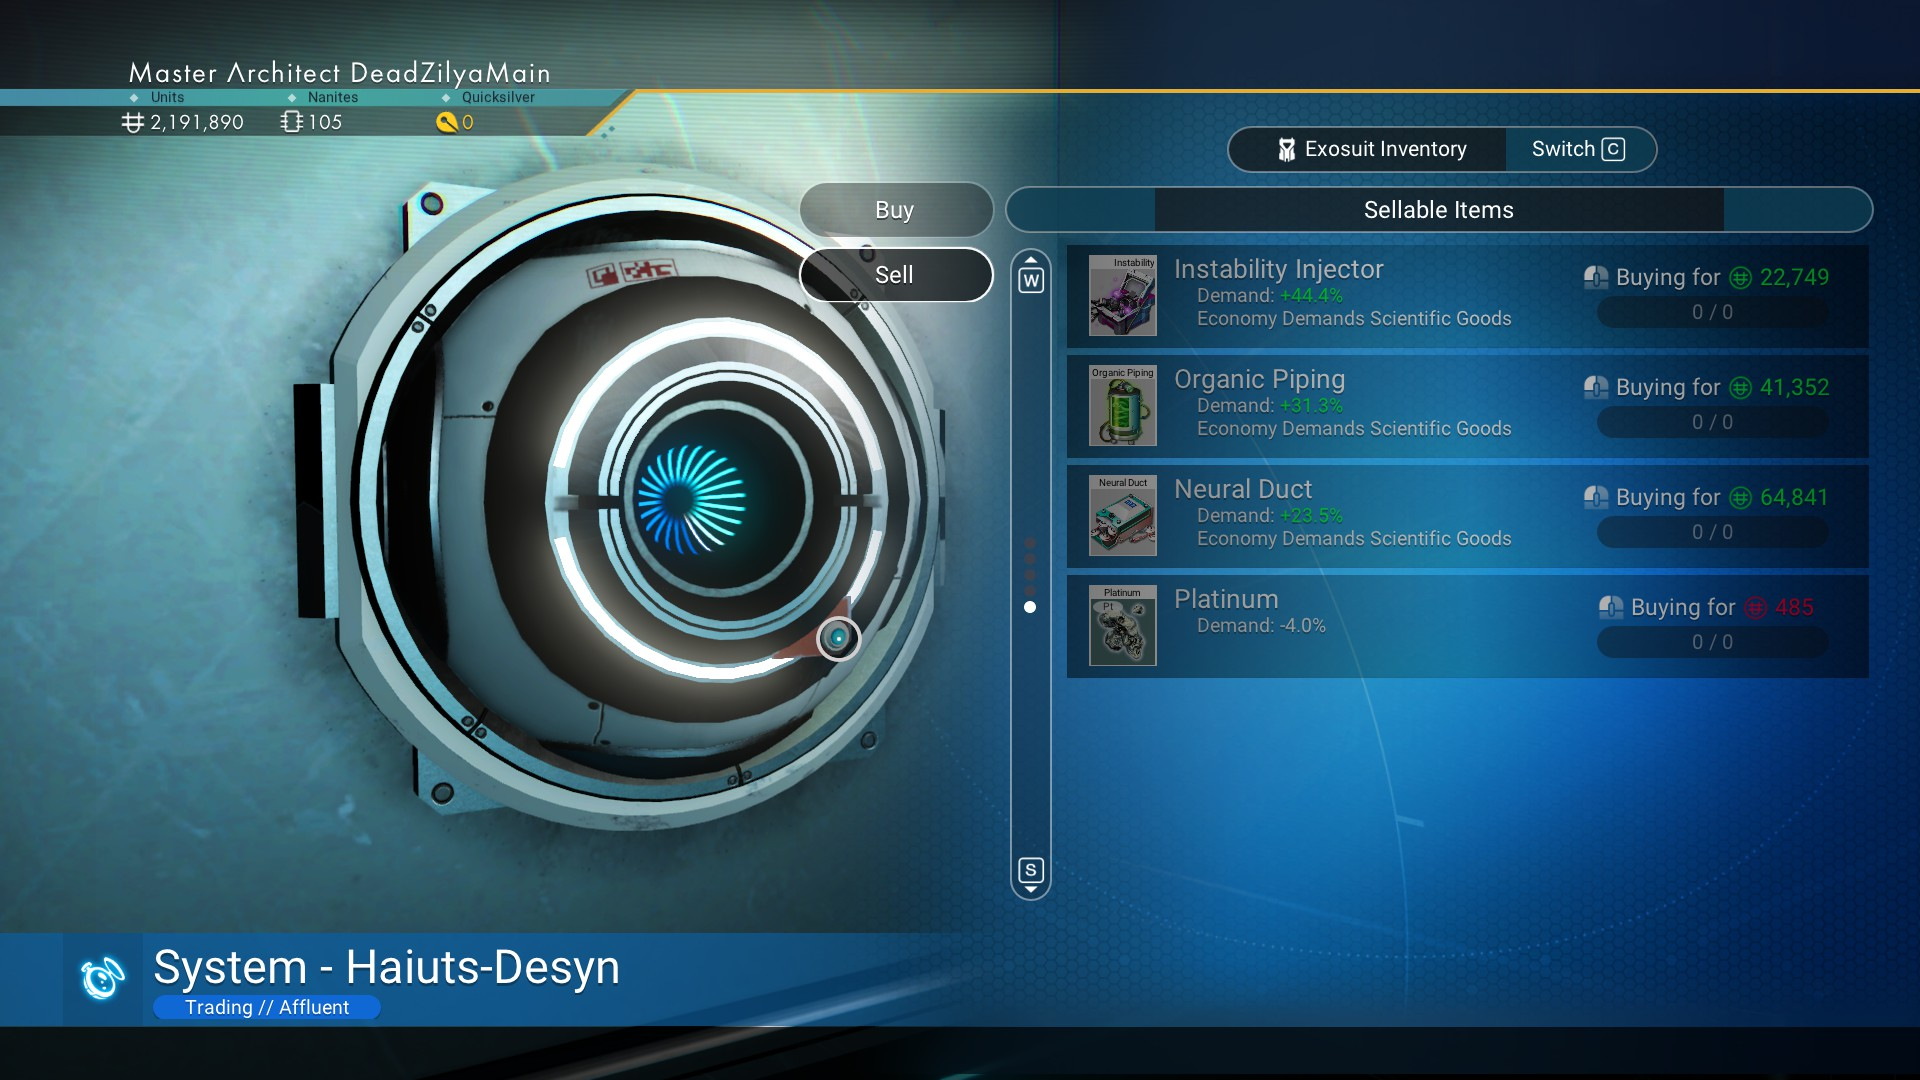
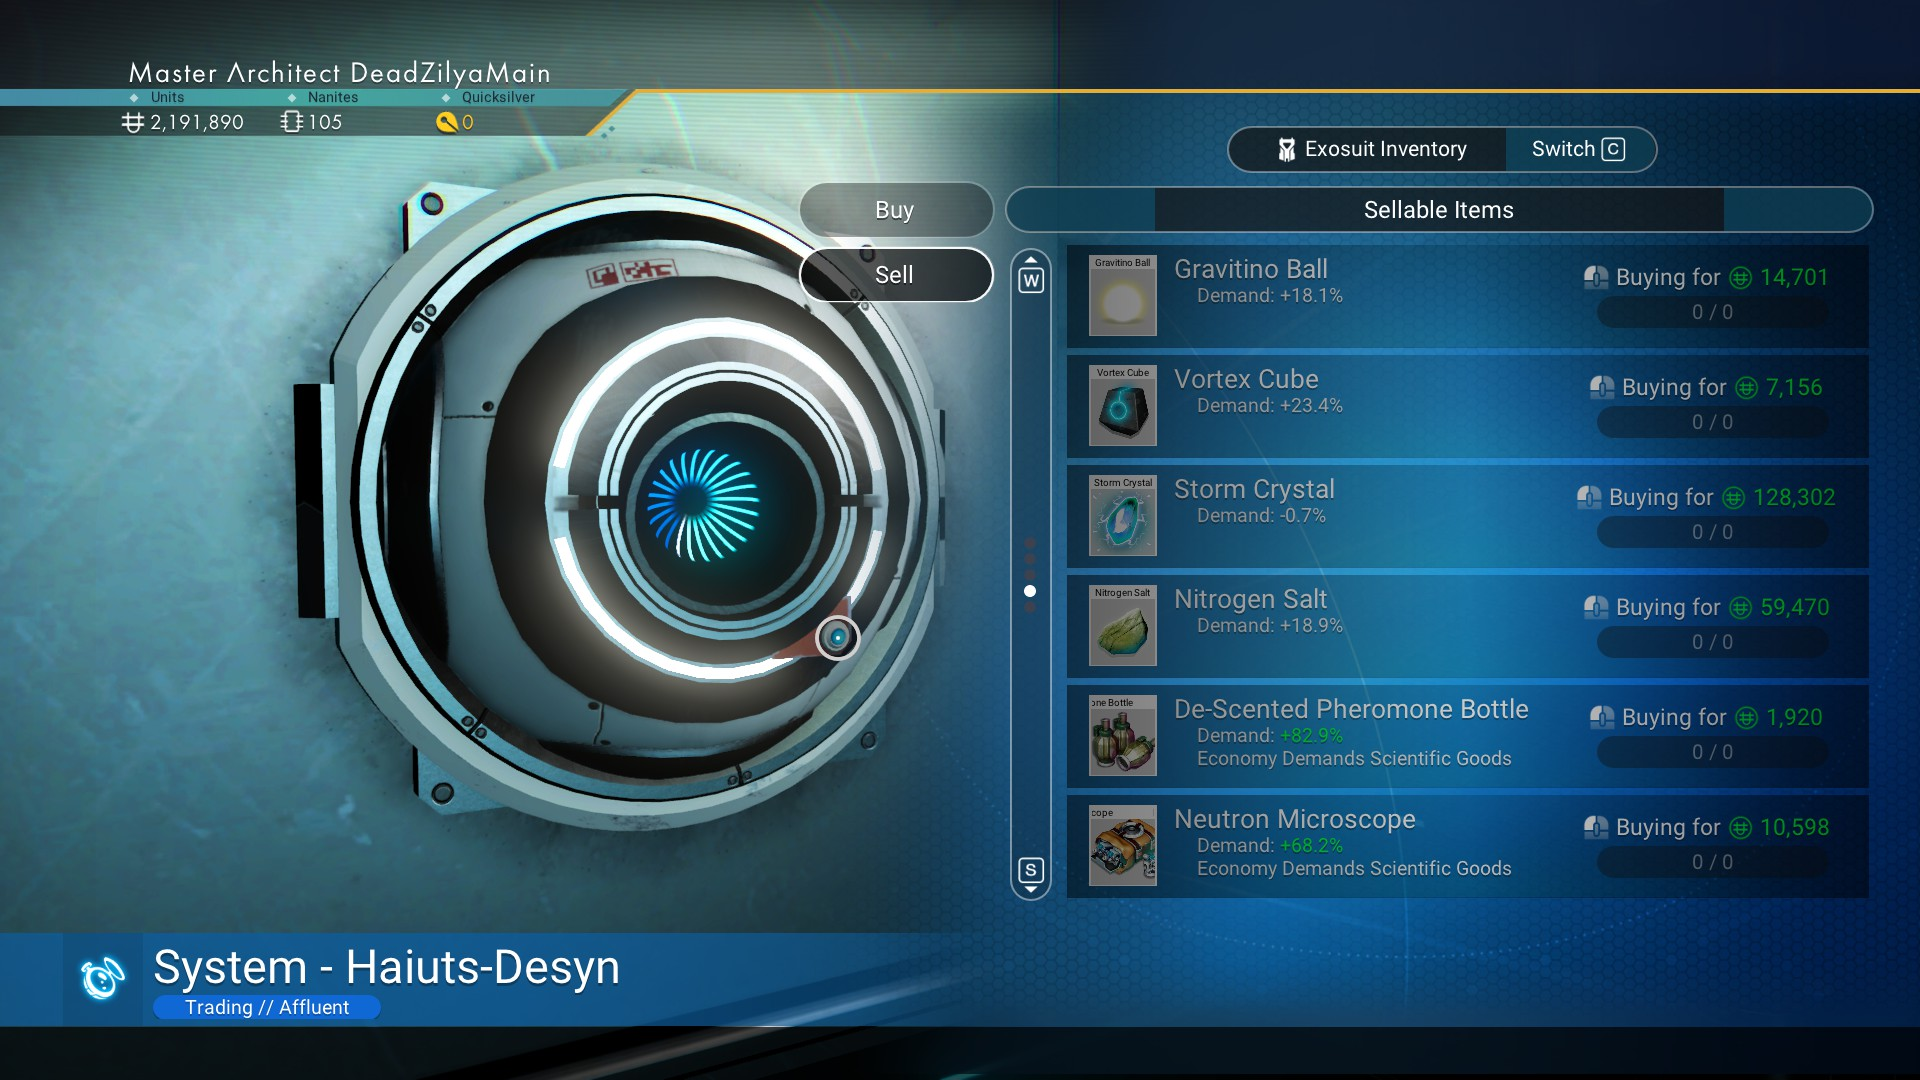
before

diff --git a/ImageDataHarvesting/imageDataHarvestingSelling.py b/ImageDataHarvesting/imageDataHarvestingSelling.py
@@ -9,15 +9,15 @@ def main():
     screenshot_name = "Selling.png"
     grayscale_screenshot = Image.open(screenshot_name).convert('LA')
 
-    top_coordinates_item = [255, 355, 465, 575, 685]
-    bottom_offset_coordinates_item = [795, 685, 575, 465, 355]
+    top_coordinates_item = [255, 355, 465, 575, 685, 795, 905]
+    bottom_offset_coordinates_item = [795, 685, 575, 465, 355, 245, 135]
 
-    top_coordinates_price = [250, 360, 470, 580, 690]
-    bottom_offset_coordinates_price = [780, 670, 560, 450, 340]
+    top_coordinates_price = [250, 360, 470, 580, 690, 800, 910]
+    bottom_offset_coordinates_price = [780, 670, 560, 450, 340, 230, 120]
 
     not_finished = True
-    top_coordinates_check = [305, 415, 525, 635, 745, 0]
-    bottom_offset_coordinates_check = [740, 630, 520, 410, 300, 0]
+    top_coordinates_check = [305, 415, 525, 635, 745, 855, 965, 0]
+    bottom_offset_coordinates_check = [740, 630, 520, 410, 300, 190, 80, 0]
 
     item_index = 0
     while not_finished:
